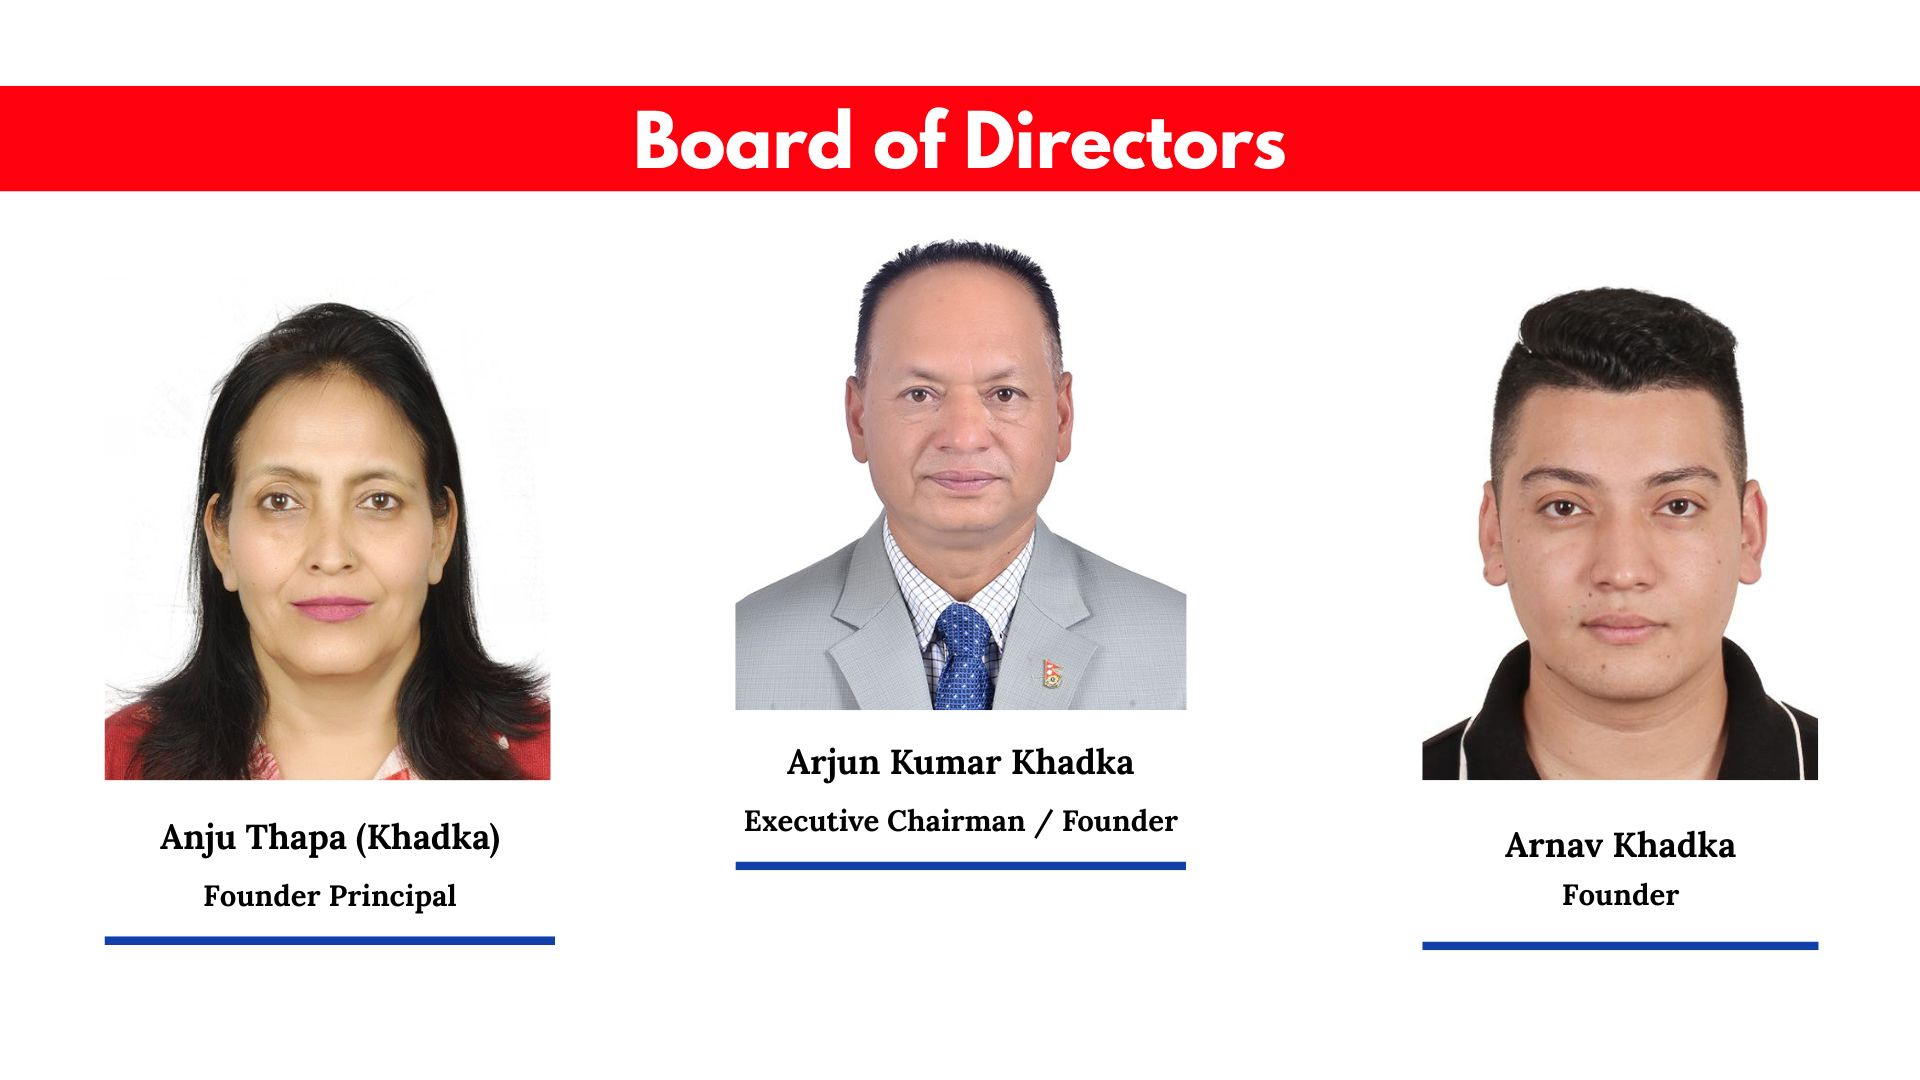
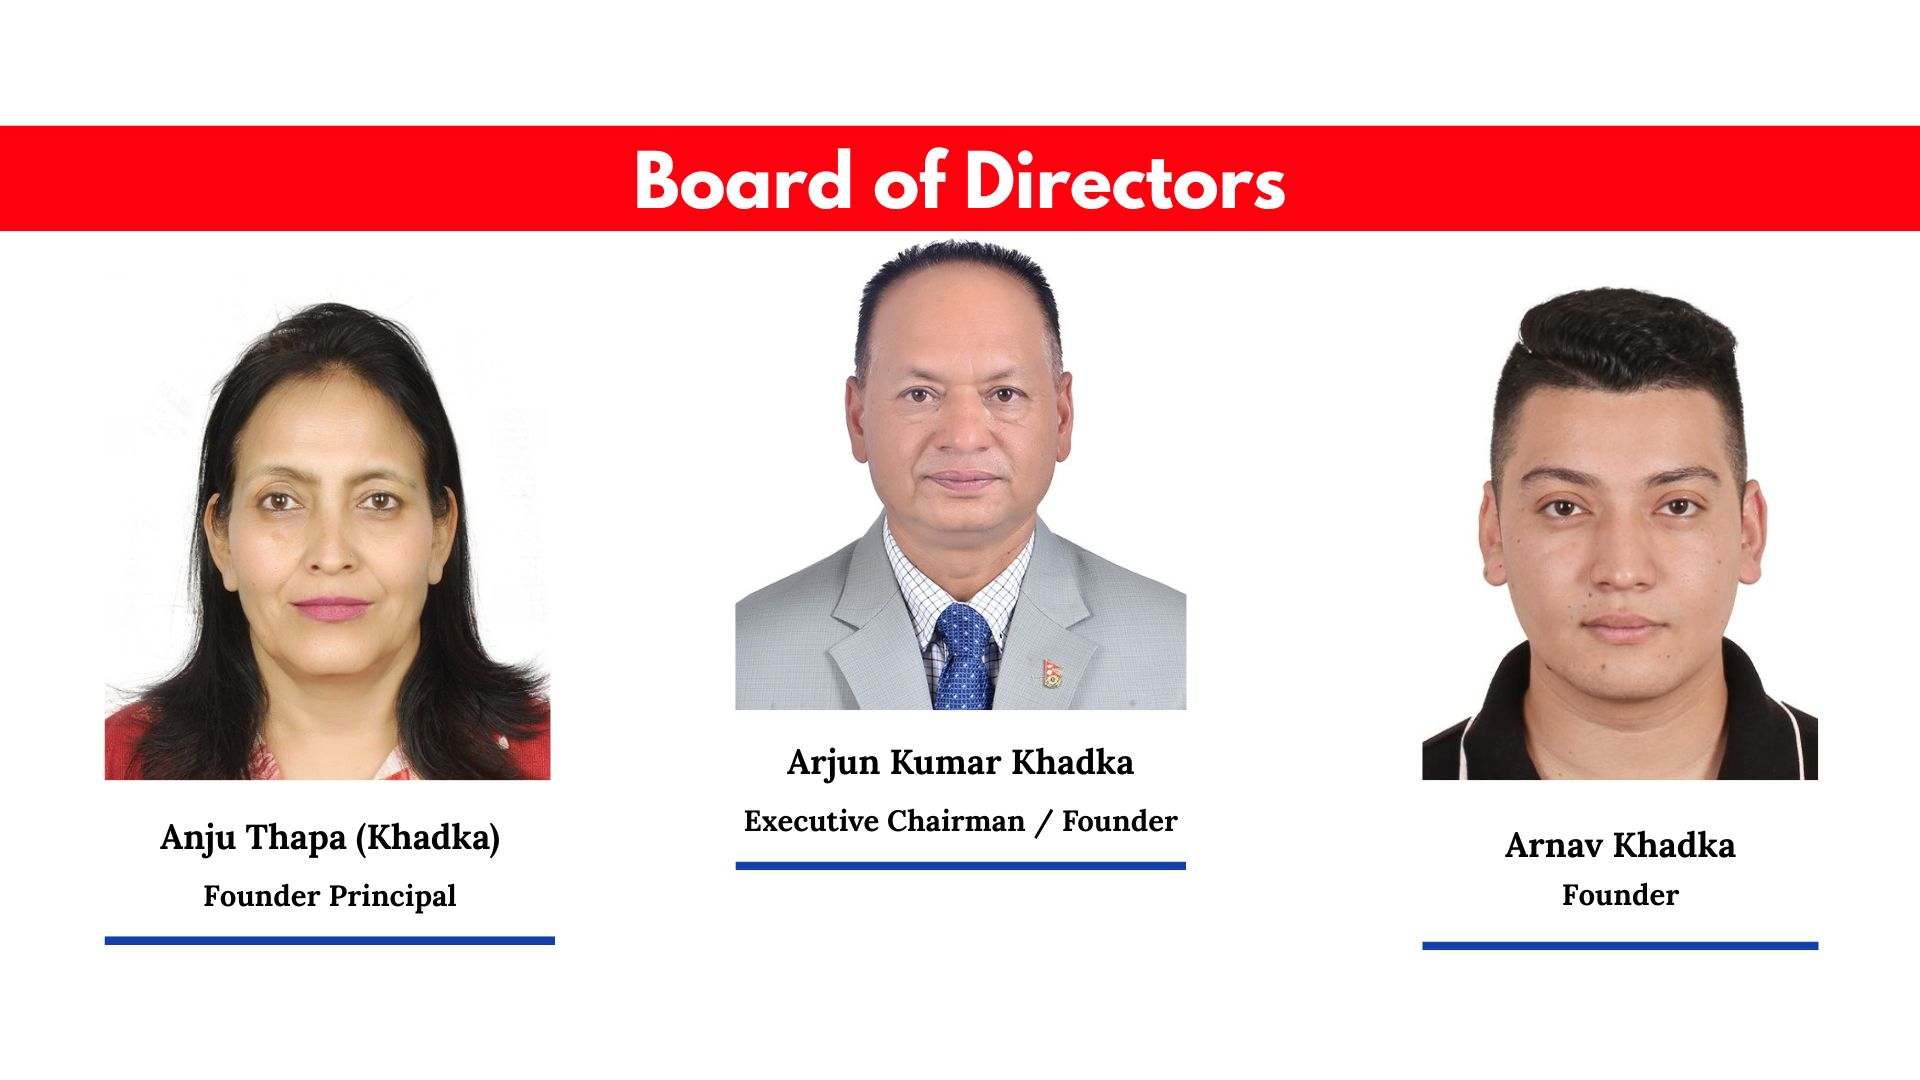
final edit

Changed region(s): [[0.0, 0.0611, 1.0, 0.2139]]

diff --git a/src/layouts/RootLayout.tsx b/src/layouts/RootLayout.tsx
@@ -748,7 +748,7 @@ export default function RootLayout() {
                     <Facebook className="w-3.5 h-3.5 sm:w-4 sm:h-4 text-white" />
                   </a>
                   <a 
-                    href="https://instagram.com" 
+                    href="https://www.instagram.com/kathmandunationalschool/" 
                     target="_blank" 
                     rel="noopener noreferrer"
                     className="w-8 h-8 sm:w-9 sm:h-9 lg:w-10 lg:h-10 rounded-md bg-white/10 backdrop-blur-sm flex items-center justify-center hover:bg-white/20 transition-all duration-300 border border-white/20 hover:border-white/40"
@@ -757,7 +757,7 @@ export default function RootLayout() {
                     <Instagram className="w-3.5 h-3.5 sm:w-4 sm:h-4 text-white" />
                   </a>
                   <a 
-                    href="https://youtube.com" 
+                    href="https://www.youtube.com/@knsschool2036" 
                     target="_blank" 
                     rel="noopener noreferrer"
                     className="w-8 h-8 sm:w-9 sm:h-9 lg:w-10 lg:h-10 rounded-md bg-white/10 backdrop-blur-sm flex items-center justify-center hover:bg-white/20 transition-all duration-300 border border-white/20 hover:border-white/40"
